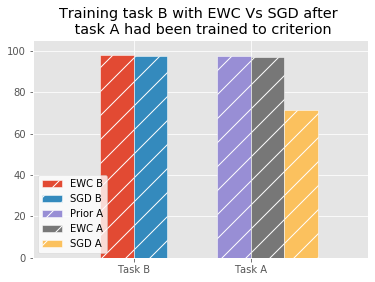
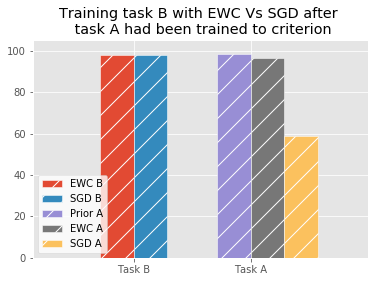
added results for 100 epochs

Changed region(s): [[0.7333, 0.3688, 0.8507, 0.5106], [0.5867, 0.1702, 0.7333, 0.227], [0.3813, 0.1702, 0.44, 0.227]]

diff --git a/module.py b/module.py
@@ -100,12 +100,6 @@ class EWC:
     
     def get_fisher(self):
         return self.fisher_matrix
-    
-    def loss_penalty(self, current_weights):
-        ewc_loss = 0.
-        for u, v, w in zip(current_weights, self.prior_weights, self.fisher_matrix):
-            ewc_loss += self.lambda_ * tf.reduce_sum(w * tf.math.square(u - v))
-        return ewc_loss
          
 
 class MLP3:
